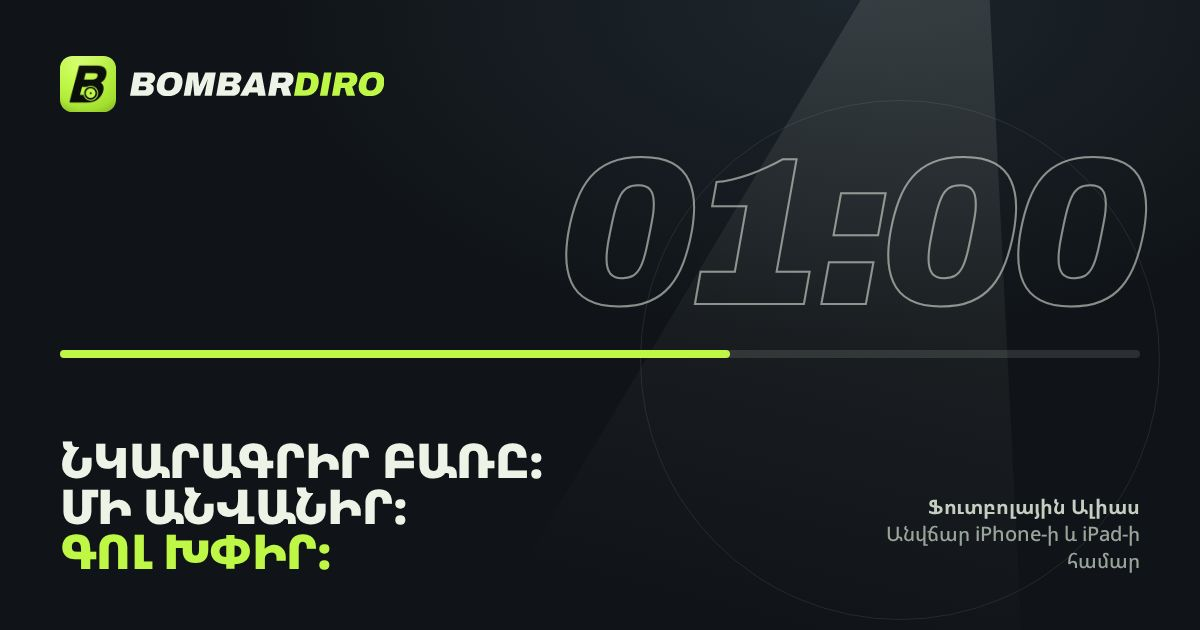
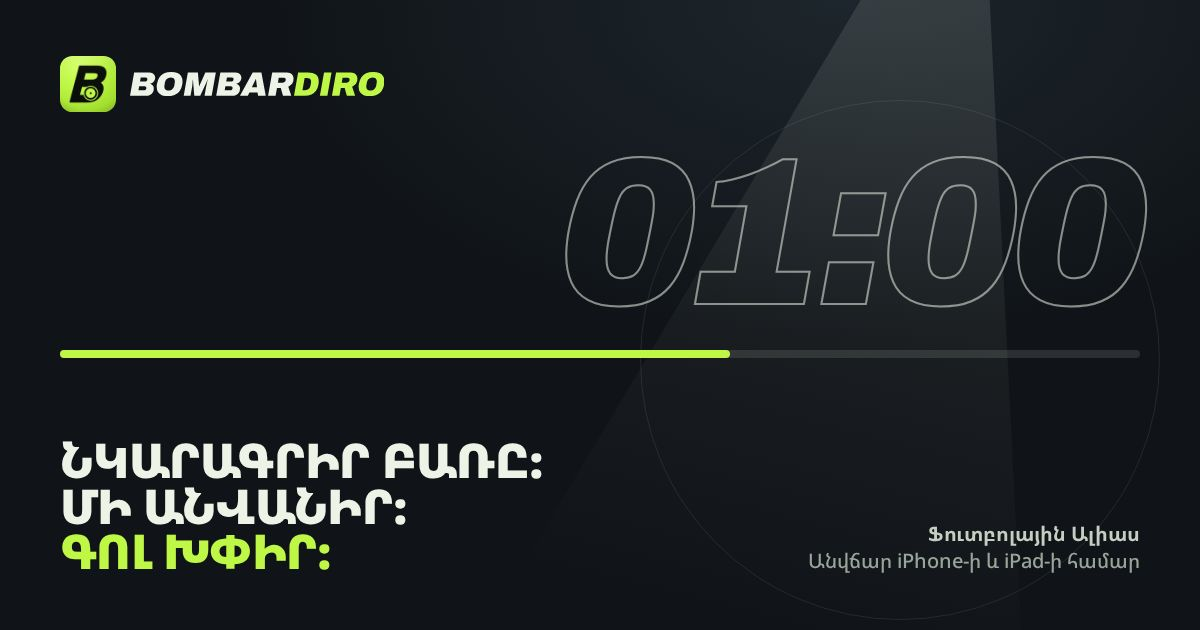
fix(copy, seo): pair Bombardiro with football, native-editor fixes
- Support and Privacy titles and descriptions name the football game;
  check-site now fails any title or description that names Bombardiro
  without football (seo.md)
- How to play titles describe Bombardiro's own rules, leaving "Alias rules"
  to the guide; Home descriptions add «Элиас» and «Ալիաս հայերենով»
- Privacy descriptions say "no cookies of our own" instead of "no ads",
  which copy.md keeps to the two FAQ answers
- Russian: «объясняй» for words, the footer's independence line agrees in
  number, menu paths read «открой … и выбери …» instead of «…» › «…»
- Armenian: case endings in the Home description, Դժվար capitalised, the
  independence line, the guides description and the 404's link and text
- App Store service mark line in Apple's exact wording
- JSON-LD: one app node per language; og:image:alt names the brand
- Armenian OG card keeps its availability line on one line

Claude-Session: https://claude.ai/code/session_016d68Kb9TmJJULKV2aHoLdf

Changed region(s): [[0.6783, 0.7841, 0.9558, 0.9048]]

diff --git a/src/lib/structured-data.ts b/src/lib/structured-data.ts
@@ -6,7 +6,6 @@ import { absoluteUrl, LANGS, routePath, type Lang } from './routes';
 
 export const ORG_ID = `${SITE_URL}/#organization`;
 export const WEBSITE_ID = `${SITE_URL}/#website`;
-export const APP_ID = `${SITE_URL}/#app`;
 
 type Json = Record<string, unknown>;
 
@@ -37,7 +36,8 @@ export function app(lang: Lang): Json {
   const t = copyFor(lang);
   return {
     '@type': ['VideoGame', 'MobileApplication'],
-    '@id': APP_ID,
+    // One node per language: each Home describes the app in its own language and URL.
+    '@id': `${absoluteUrl(routePath('home', lang))}#app`,
     name: t.brand.name,
     description: t.pages.home.meta.description,
     url: absoluteUrl(routePath('home', lang)),
